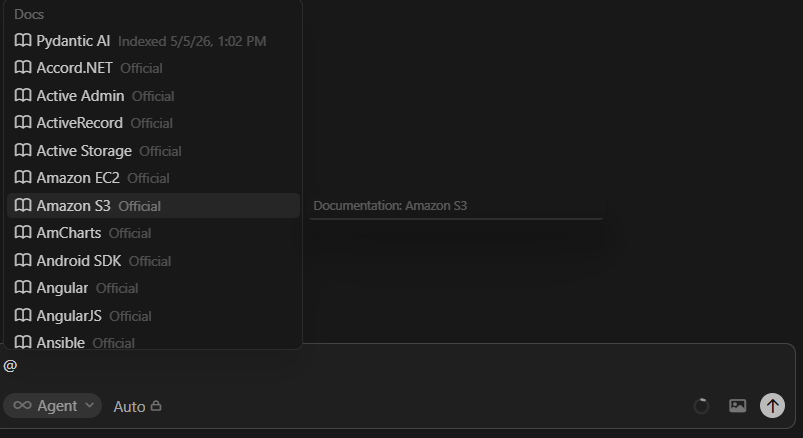
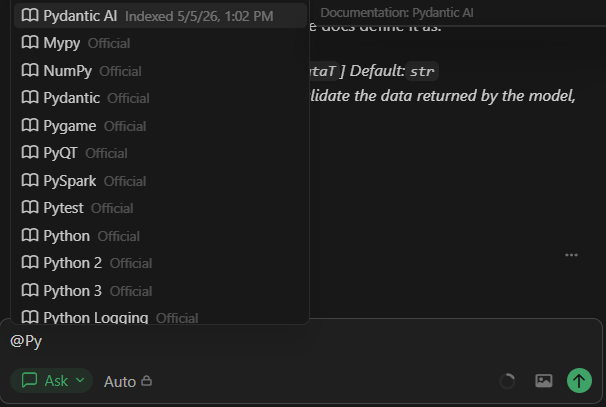
update

diff --git a/README-zh-TW.md b/README-zh-TW.md
@@ -94,7 +94,7 @@ Cursor 社群論壇的討論串 [Cursor @Docs feature STILL BROKEN](https://foru
 
 **正常運作的部分：**
 - 輸入 `@Docs` 會打開一個選擇器；輸入提示過濾（type-ahead filtering）運作正常。
-- 輸入 `@Docs Pyd` 會正確地同時顯示 **Pydantic**（內建 / 官方精選）和 **Pydantic AI**（使用者新增）的項目 _(截圖 05)_。
+- 輸入 `@Docs Py` 會正確地同時顯示 **Pydantic**（內建 / 官方精選）和 **Pydantic AI**（使用者新增）的項目 _(截圖 05)_。
 - 一旦使用者開始輸入，使用者新增的文件就會與內建的精選文件出現在同一個選擇器中。
 
 **未能運作的部分：**
@@ -113,7 +113,7 @@ UI 上缺少了什麼提示（affordance）：
 
 ![捲動到選擇器底部 — 依然只有 A 開頭；清單在此結束，永遠不會顯示 B 或之後的字母](cursor-docs-audit-2026-05-06/08_at-menu-built-in-docs-no-pydantic-visible.png)
 
-輸入 `Pyd` 後，內建的 **Pydantic** 項目就浮現了 —— 證明選擇器在開始打字後*確實能夠*觸及非 A 開頭的項目；它們並未消失，只是被隱藏在預設的渲染視圖中：
+輸入 `Py` 後，內建的 **Pydantic** 項目就浮現了 —— 證明選擇器在開始打字後*確實能夠*觸及非 A 開頭的項目；它們並未消失，只是被隱藏在預設的渲染視圖中：
 
 ![已過濾的選擇器 — 一旦開始輸入，內建的 Pydantic 就會浮現](cursor-docs-audit-2026-05-06/05_at-menu-manual-pydantic-visible.png)
 
@@ -152,7 +152,7 @@ UI 上缺少了什麼提示（affordance）：
 
 **一般使用者的操作路徑：**
 
-一個想要尋找 Pydantic AI（Agent 框架）文件上下文的一般 Cursor 使用者，會輸入 `@Docs Pyd`，然後看到內建的 **Pydantic** 項目。他們選擇了它 —— 這是顯而易見的匹配項目。接著，他們問了一個關於 `Agent(...)` 建構函式參數的問題。
+一個想要尋找 Pydantic AI（Agent 框架）文件上下文的一般 Cursor 使用者，會輸入 `@Docs Py`，然後看到內建的 **Pydantic** 項目。他們選擇了它 —— 這是顯而易見的匹配項目。接著，他們問了一個關於 `Agent(...)` 建構函式參數的問題。
 
 一般使用者**並不知道**，也沒有理由知道：
 

diff --git a/README.md b/README.md
@@ -91,7 +91,7 @@ Operationalized:
 
 **The part that works:**
 - Typing `@Docs` opens a picker; type-ahead filtering operates correctly.
-- Typing `@Docs Pyd` correctly surfaces both **Pydantic** (built-in / Official curated) and **Pydantic AI** (user-added) entries _(screenshot 05)_.
+- Typing `@Docs Py` correctly surfaces both **Pydantic** (built-in / Official curated) and **Pydantic AI** (user-added) entries _(screenshot 05)_.
 - User-added docs appear in the same picker as built-in curated docs once the user starts typing.
 
 **The part that doesn't:**
@@ -110,7 +110,7 @@ A user opening the picker for the first time, expecting to see their just-added 
 
 ![Scrolled to the bottom of the picker — still only A-prefix; the list ends here without ever showing B or beyond](cursor-docs-audit-2026-05-06/08_at-menu-built-in-docs-no-pydantic-visible.png)
 
-After typing `Pyd`, the built-in **Pydantic** entry surfaces — proving the picker *can* reach non-A entries once typing begins; they were not missing, just hidden in the default render:
+After typing `Py`, the built-in **Pydantic** entry surfaces — proving the picker *can* reach non-A entries once typing begins; they were not missing, just hidden in the default render:
 
 ![Filtered picker — built-in Pydantic surfaces once typing starts](cursor-docs-audit-2026-05-06/05_at-menu-manual-pydantic-visible.png)
 
